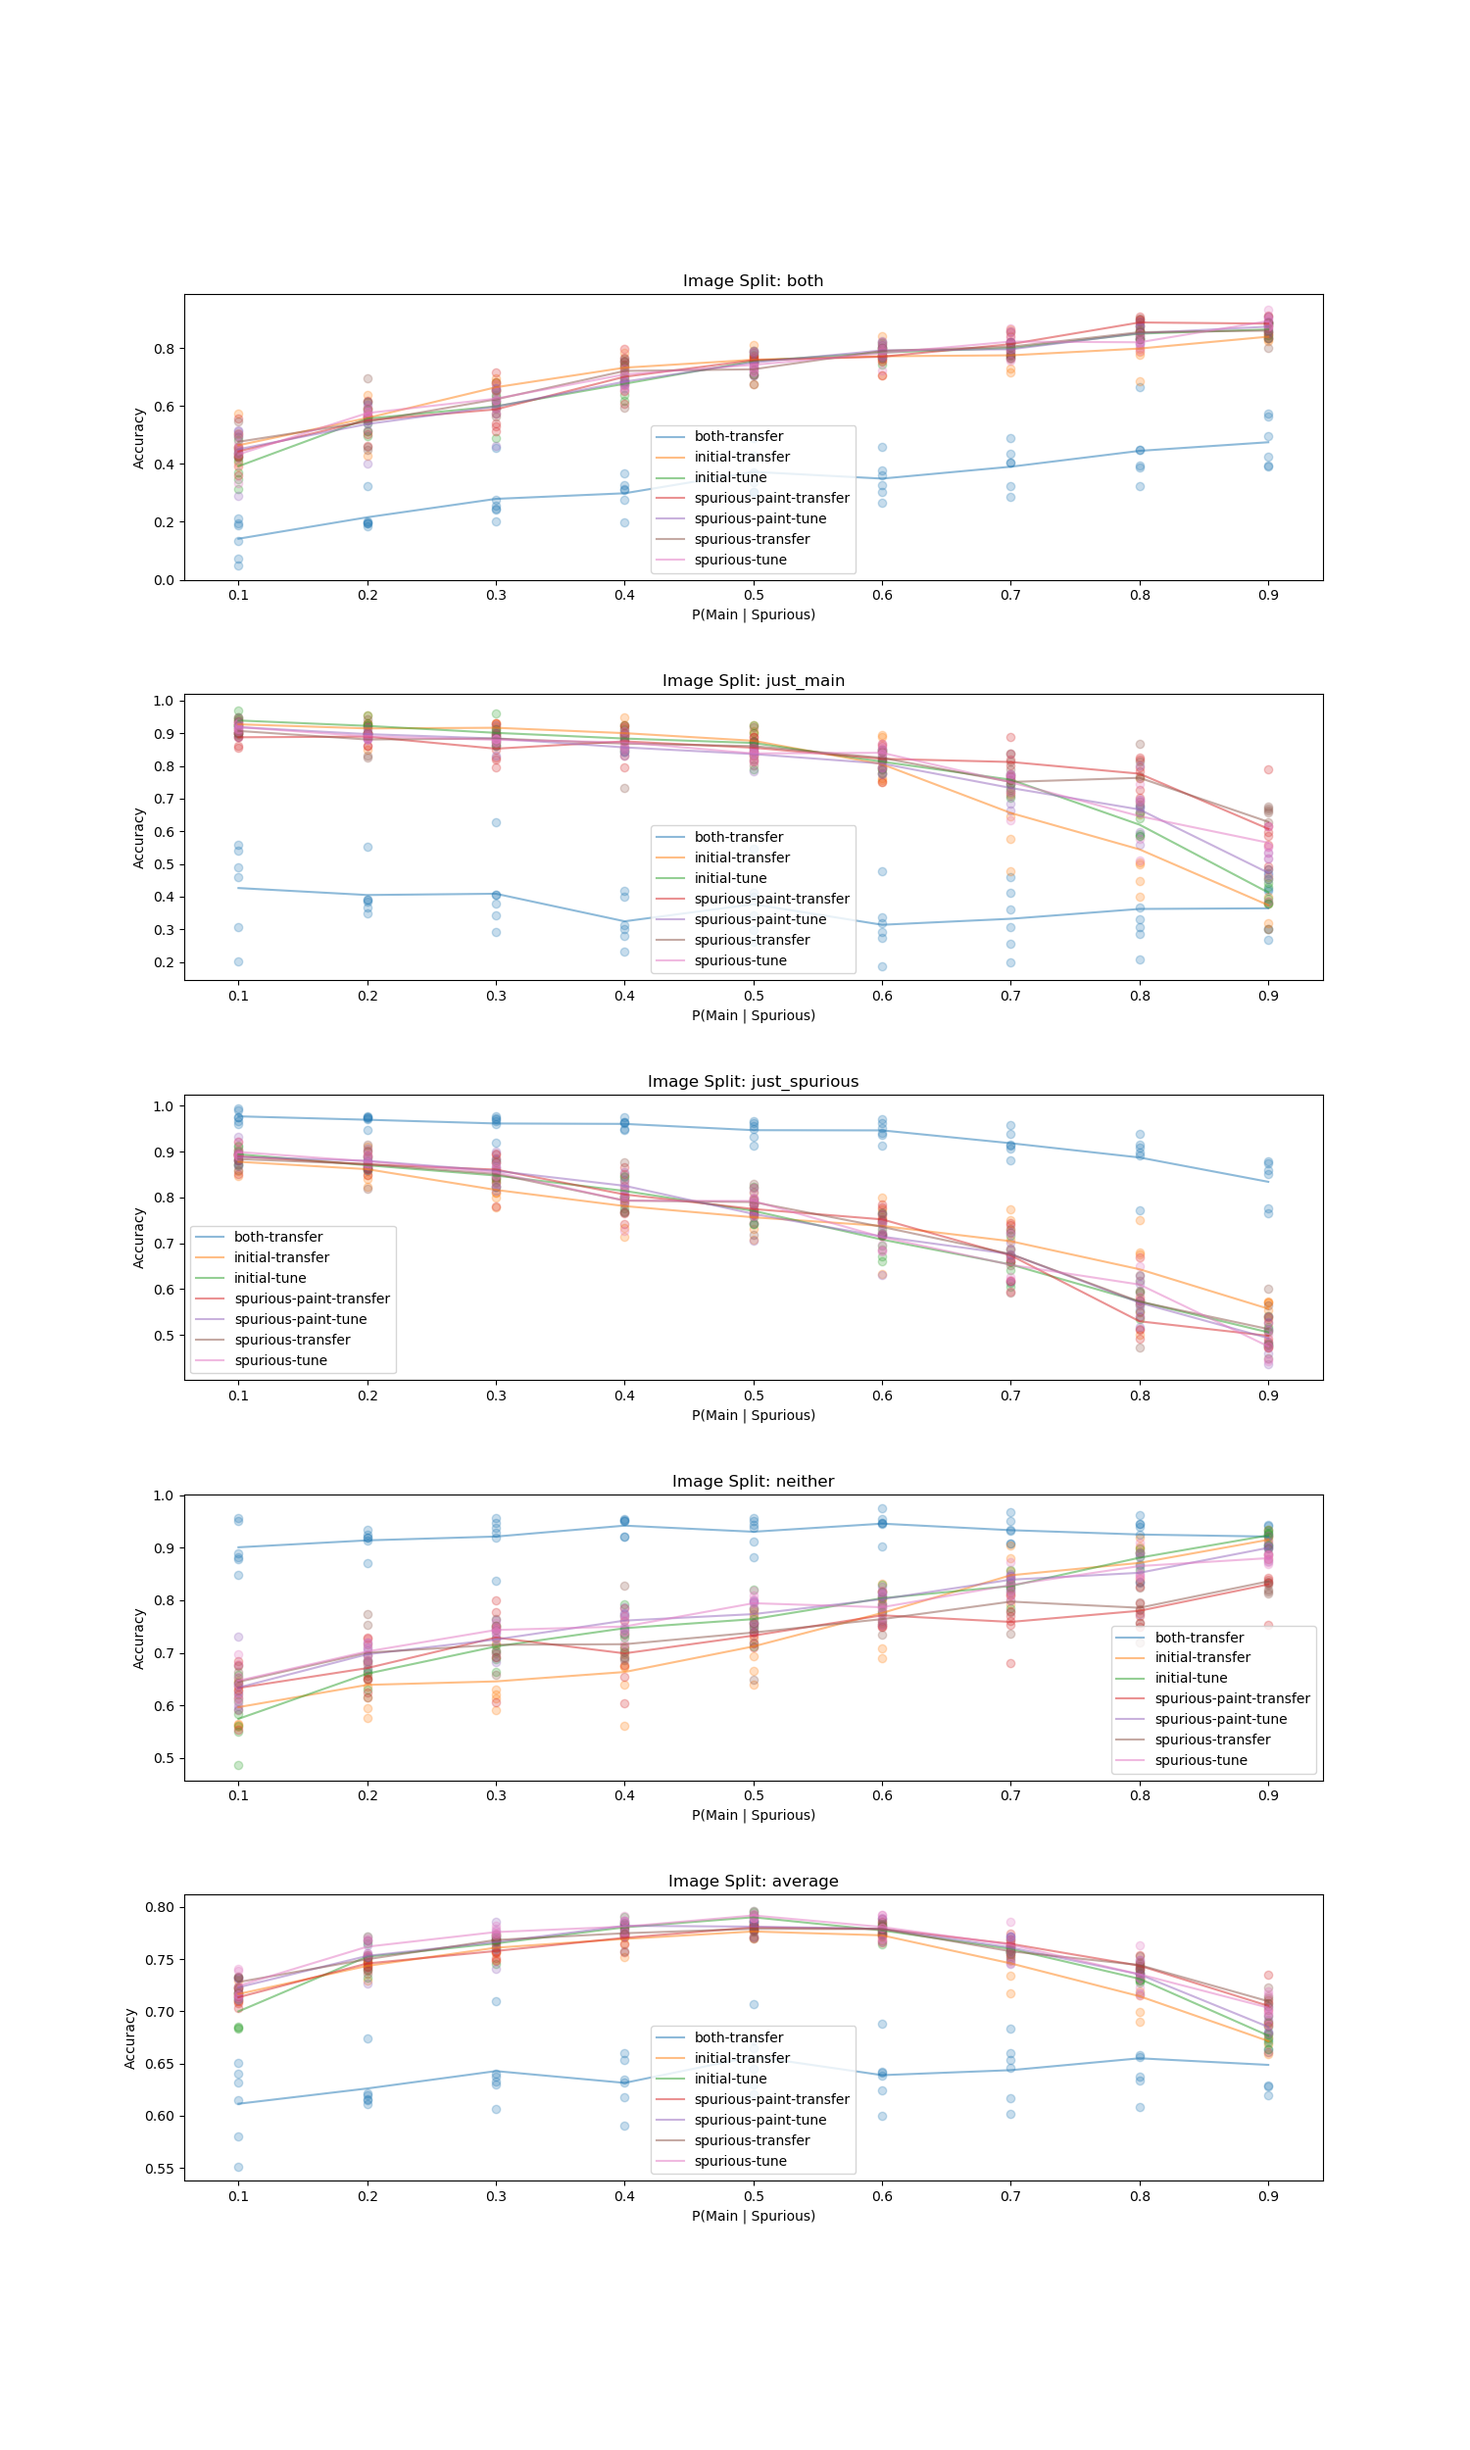
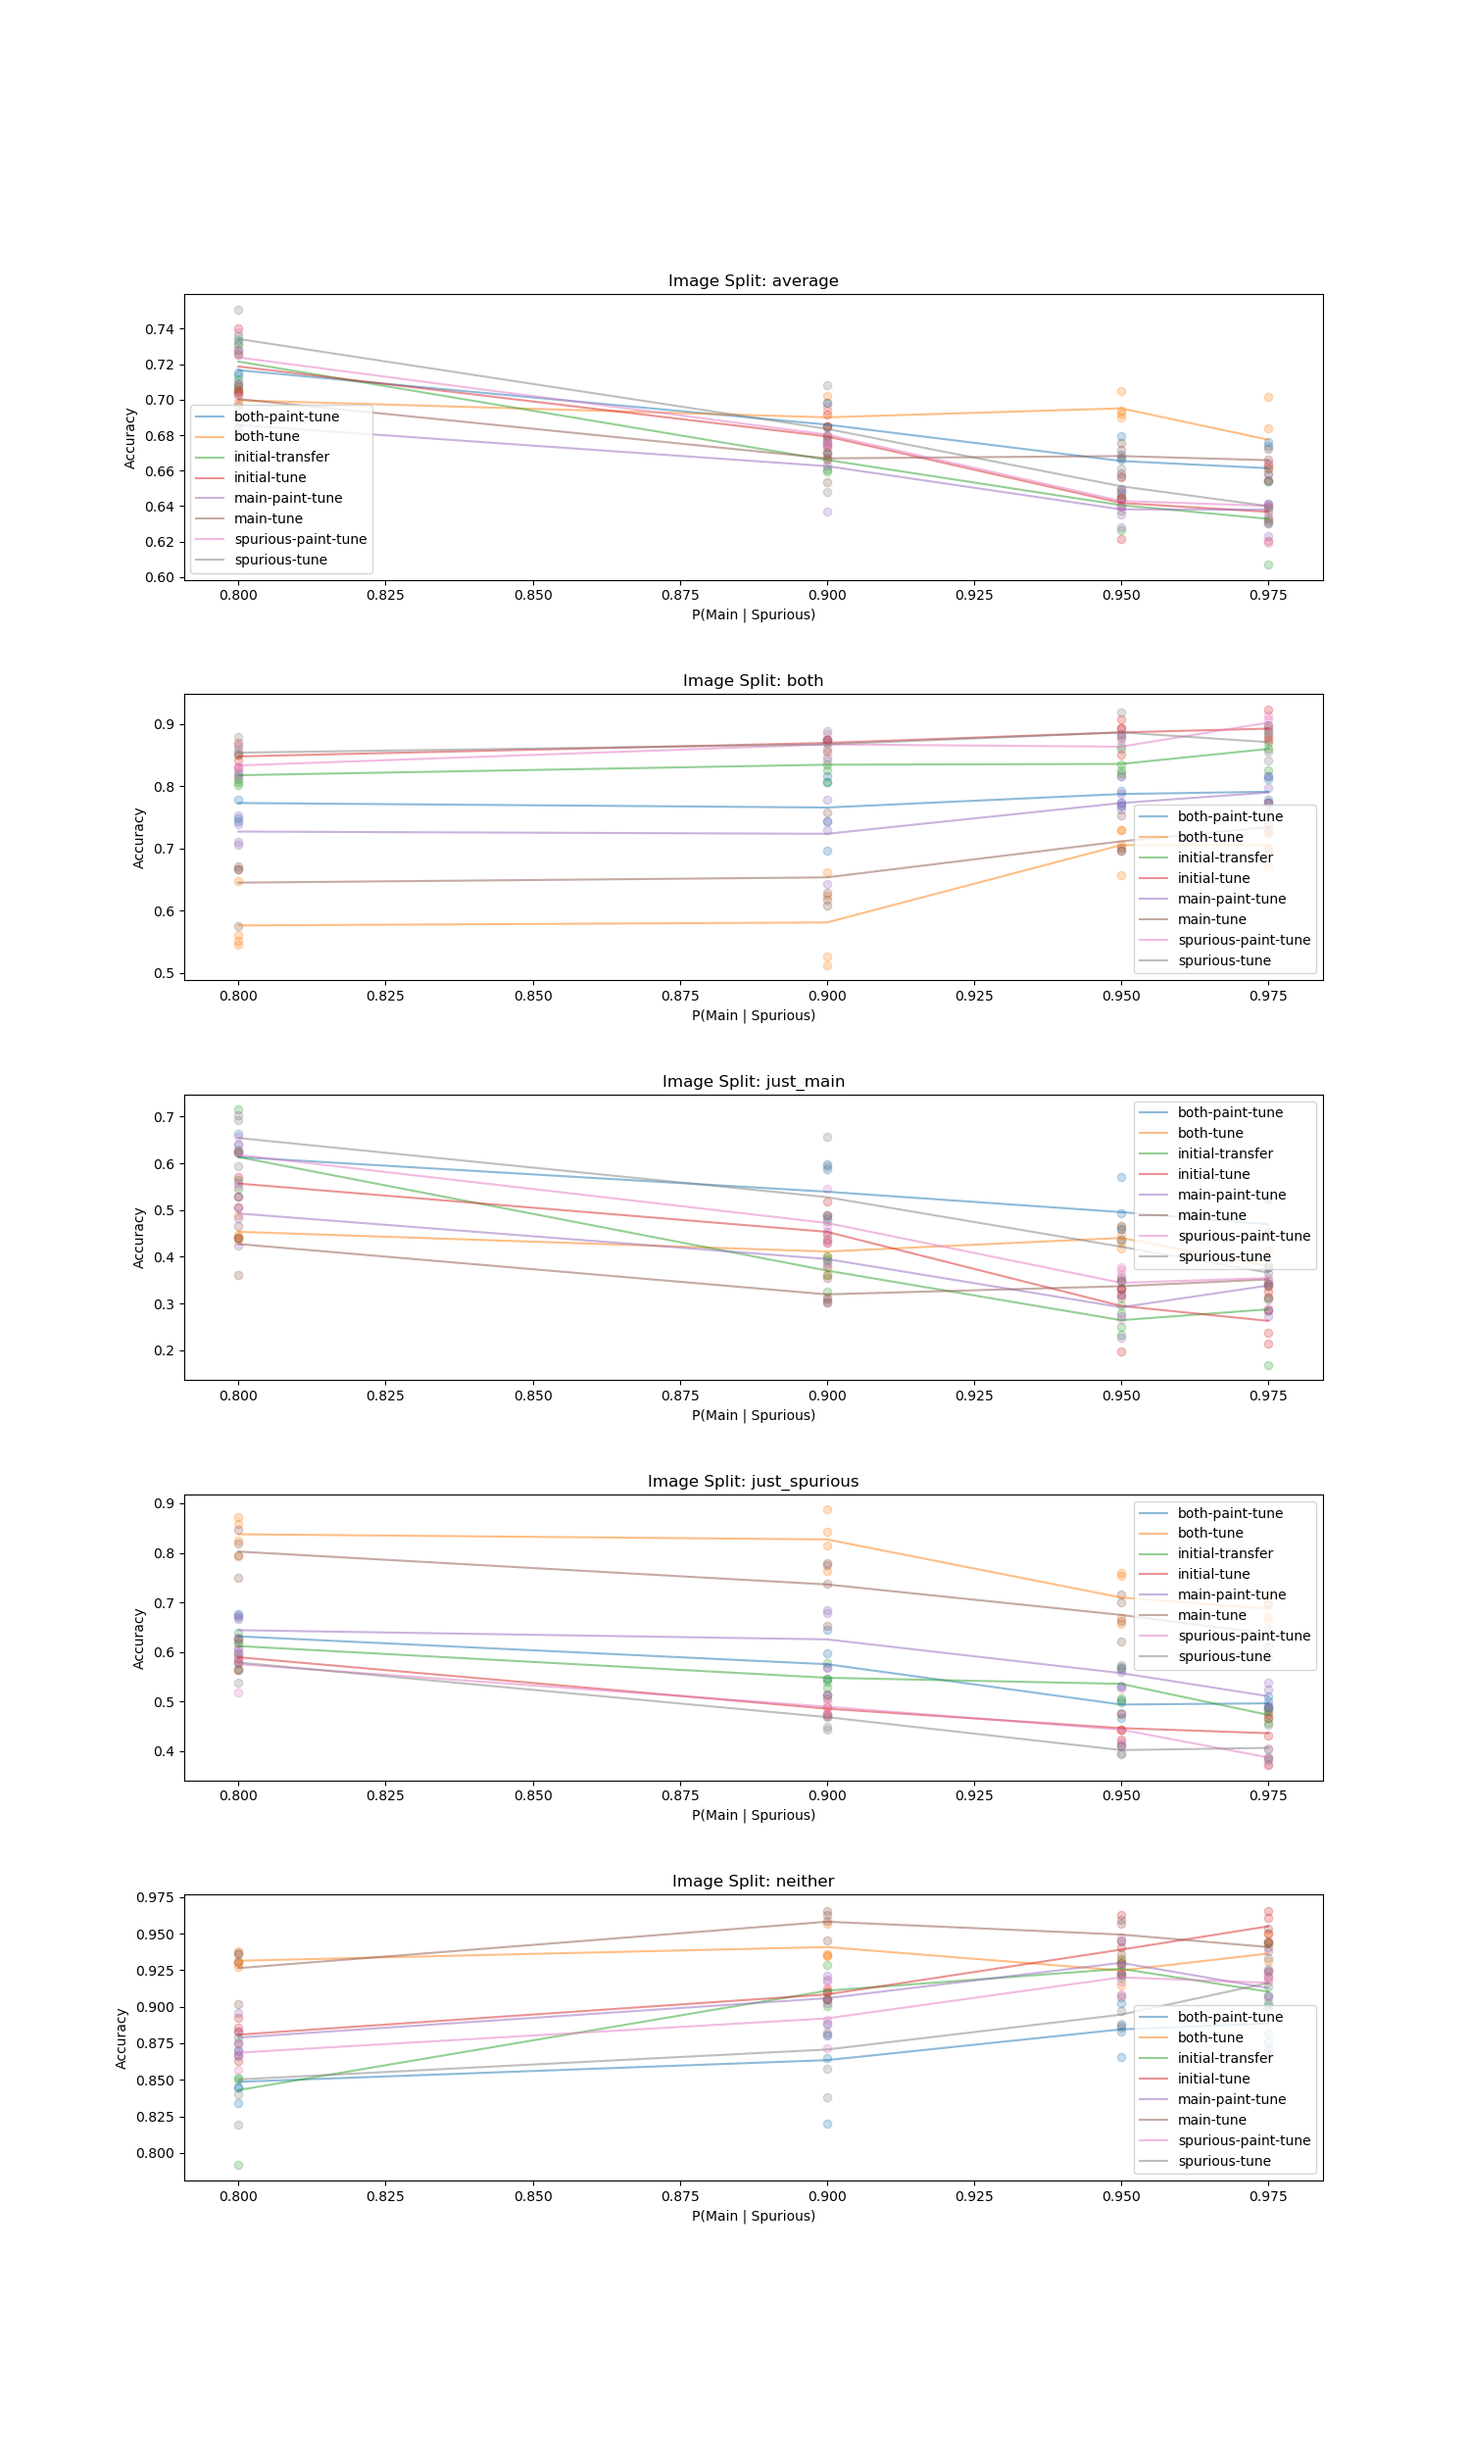
Updated results to compare different augmentation and removal strategies

diff --git a/COCO-controlled/Train.py b/COCO-controlled/Train.py
@@ -9,7 +9,7 @@ import torch
 import torchvision.models as models
 
 from Config import get_data_dir
-from Misc import load_data
+from Misc import load_data, load_data_splits
 
 sys.path.insert(0, '../COCO/')
 from Dataset import ImageDataset, my_dataloader
@@ -43,6 +43,7 @@ def metric_acc_agg(counts_list = None):
         
 def train(mode, main, spurious, p_correct, trial, p_main = 0.5, p_spurious = 0.5, n = 2000):
 
+    defaults = ('/home/gregory/Datasets/COCO-controlled/blank.png', 0)
     base = './Models/{}-{}/{}/{}/trial{}'.format(main, spurious, p_correct, mode, trial)
     os.system('rm -rf {}'.format(base))
     Path(base).mkdir(parents = True, exist_ok = True)
@@ -97,15 +98,31 @@ def train(mode, main, spurious, p_correct, trial, p_main = 0.5, p_spurious = 0.5
     # Load the the data specified by mode for each Image ID
     if mode in ['initial-transfer', 'initial-tune']:
         names = ['orig']
-    elif mode in ['both-transfer', 'both-tune']:
-        names = ['orig', 'box-main', 'box-spurious']
-    elif mode in ['spurious-transfer', 'spurious-tune']:
-    	names = ['orig', 'box-spurious']
-    elif mode in ['spurious-paint-transfer', 'spurious-paint-tune']:
-    	names = ['orig', 'pixel-spurious-paint']
+    elif mode in ['both-tune']:
+        names = ['orig', 'main-box', 'spurious-box']
+    elif mode in ['main-tune']:
+        names = ['orig', 'main-box']
+    elif mode in ['spurious-tune']:
+    	names = ['orig', 'spurious-box']
+    elif mode in ['both-paint-tune']:
+        names = ['orig', 'main-pixel-paint', 'spurious-pixel-paint']
+    elif mode in ['main-paint-tune']:
+    	names = ['orig', 'main-pixel-paint']
+    elif mode in ['spurious-paint-tune']:
+    	names = ['orig', 'spurious-pixel-paint']
+    else:
+        print('Error: Unrecognized mode')
+        sys.exit(0)
         
-    files_train, labels_train = load_data(ids_train, images, names)
-    files_val, labels_val = load_data(ids_val, images, names)
+    if  isinstance(names, dict):
+        files_train, labels_train = load_data_splits(ids_train, images, splits, names, defaults = defaults)
+        files_val, labels_val = load_data_splits(ids_val, images, splits, names, defaults = defaults)
+    elif isinstance(names, list):
+        files_train, labels_train = load_data(ids_train, images, names)
+        files_val, labels_val = load_data(ids_val, images, names)
+    else:
+        print('Error:  Unrecognized type for names')
+        sys.exit(0)
 
     datasets = {}
     datasets['train'] = ImageDataset(files_train, labels_train)
@@ -129,6 +146,9 @@ def train(mode, main, spurious, p_correct, trial, p_main = 0.5, p_spurious = 0.5
         model.load_state_dict(torch.load('./Models/{}-{}/{}/initial-transfer/trial{}/model.pt'.format(main, spurious, p_correct, trial)))
         optim_params = model.parameters()
         lr = 0.0001
+    else:
+        print('Error:  could not determine what model parameters are trainable')
+        sys.exit(0)
 
     model.cuda()
 
